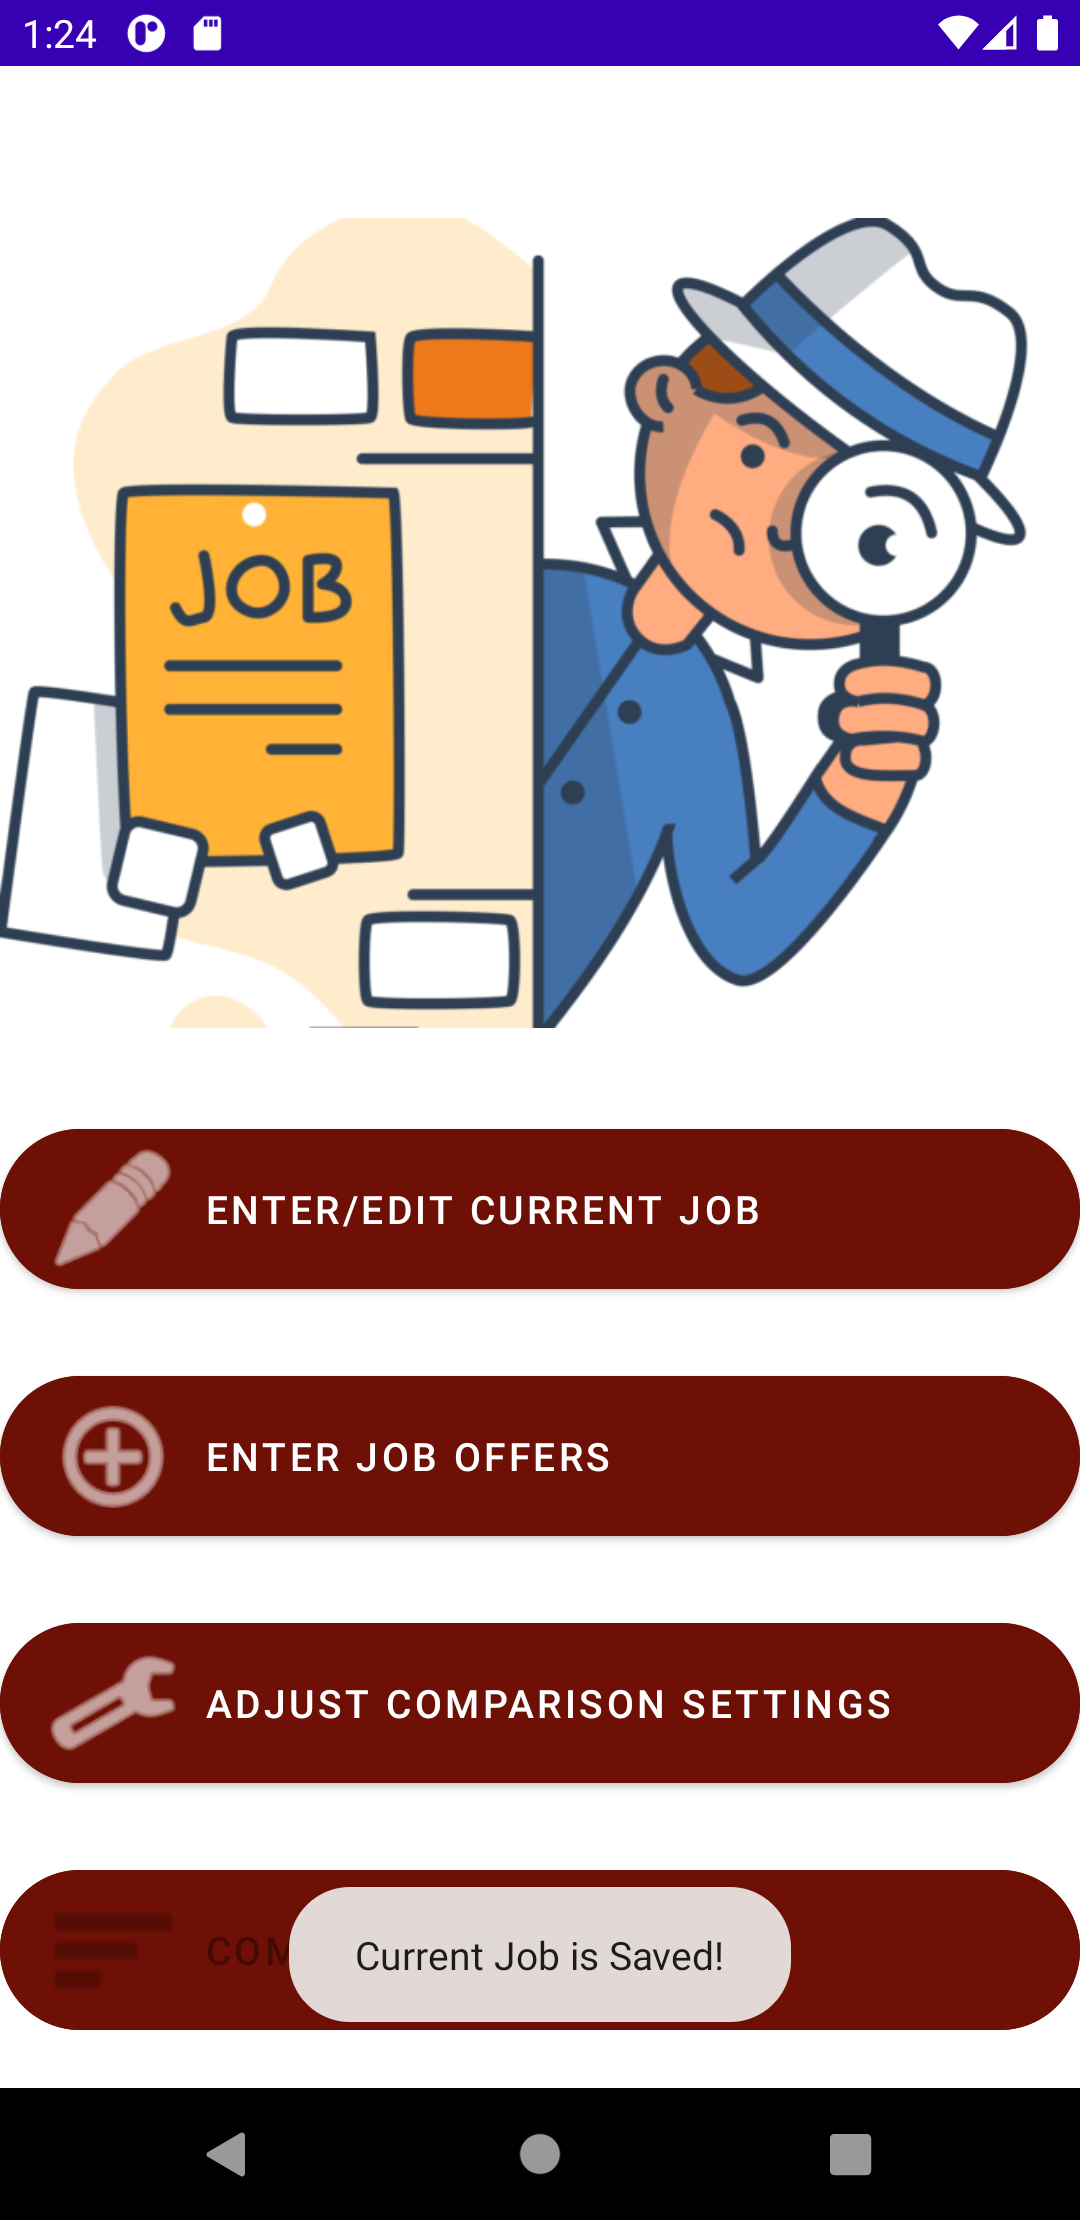
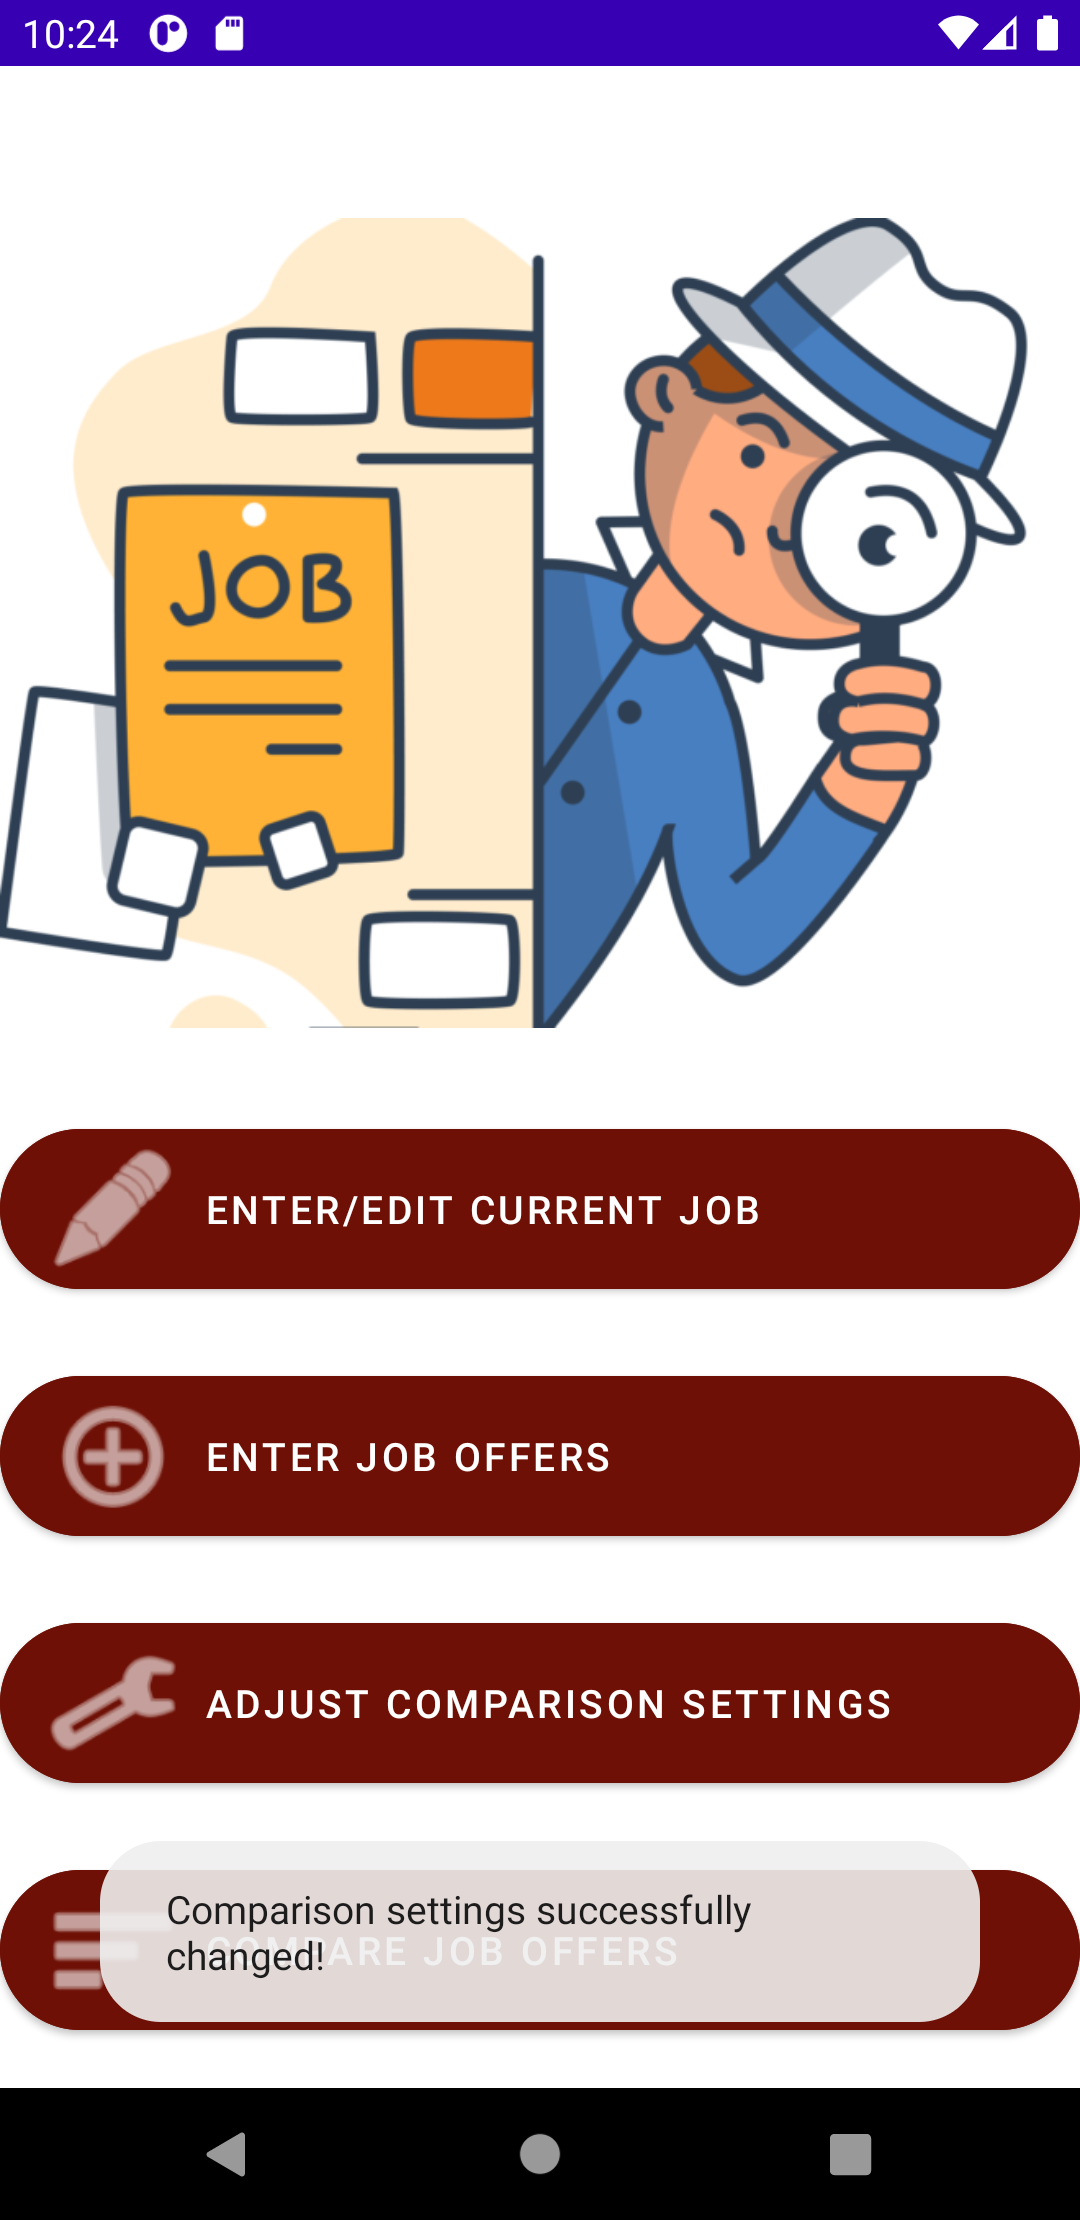
checked and updated user interface design

Changed region(s): [[0.0306, 0.8392, 0.9167, 0.9324], [0.0306, 0.0, 0.2444, 0.0311]]

diff --git a/GroupProject/Docs/DesignDocument.md b/GroupProject/Docs/DesignDocument.md
@@ -58,7 +58,7 @@ When the app is activated by the user, it is firstly initialized by creating a n
 
 ![class diagram](./images/class_diagram.png)
 
-## 4 User Interface Design v2
+## 4 User Interface Design v3
 <section mockups>
     <table class="gui">
         <tr>
@@ -152,7 +152,7 @@ When the app is activated by the user, it is firstly initialized by creating a n
         </tr>
             <tr>
             <td class="description_width" width=350px>
-                After the user checks 2 jobs and click on the COMPARE button, the user will be presented with this screen. The table will display the job details for the selected jobs. The user will  have the option to MAKE ANOTHER COMPARISON or RETURN TO MAIN MENU.
+                After the user has selected 2 jobs and clicks on the COMPARE button, the user will be presented with this Compare jobs screen. The table will display the job details for the selected jobs. The user will  have the option to MAKE ANOTHER COMPARISON or RETURN TO MAIN MENU.
             </td>
             <td class="image_width">
                 <figure>
@@ -178,7 +178,7 @@ When the app is activated by the user, it is firstly initialized by creating a n
         </tr>
             <tr>
             <td class="description_width" width=350px>
-                When user enters or edits current job or updates comparison settings weight, when we automatically navigate the user back to the main menu, we will also display a message briefly to notify the user the information has been successfully saved.
+                After the user enters or edits current job or updates comparison settings weight and clicks SAVE, we automatically navigate the user back to the main menu along with a brief message to notify the user the information has been successfully saved.
             </td>
             <td class="image_width">
                 <figure>
